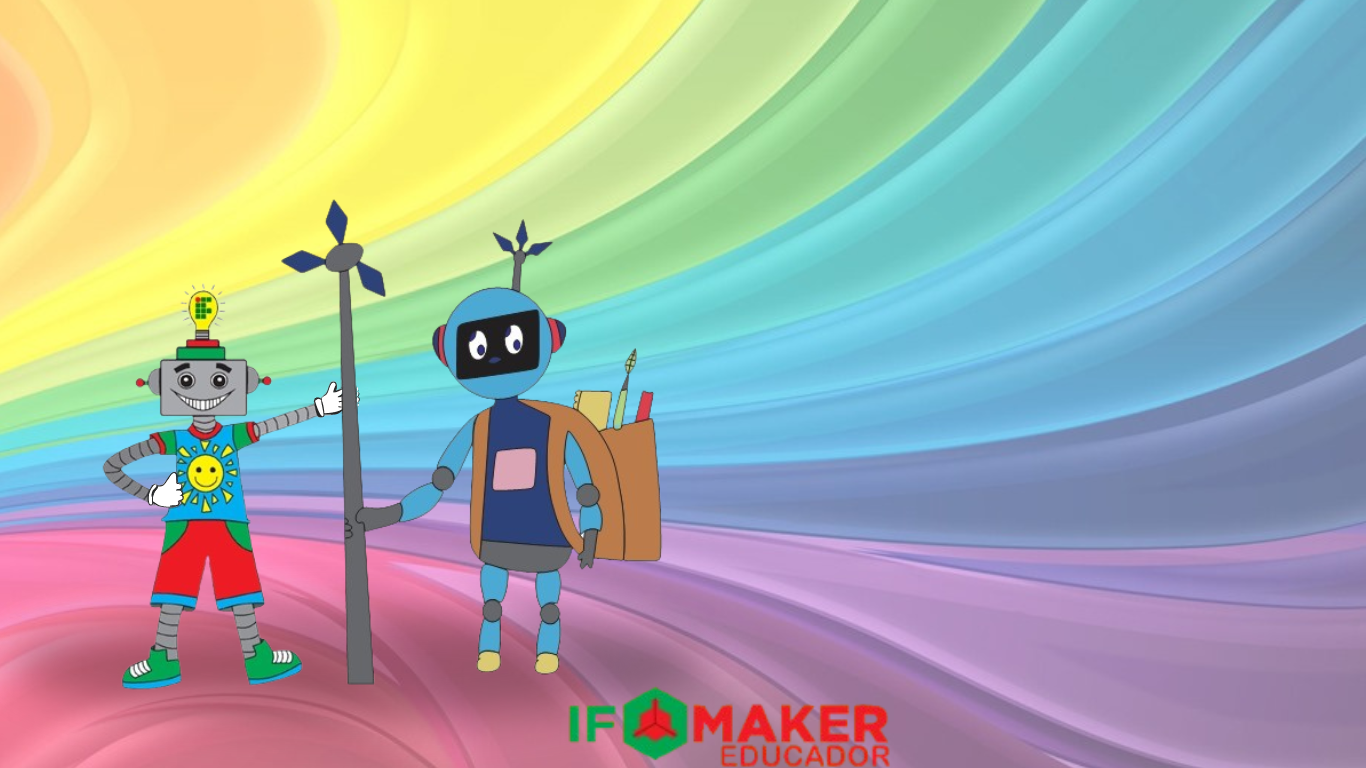
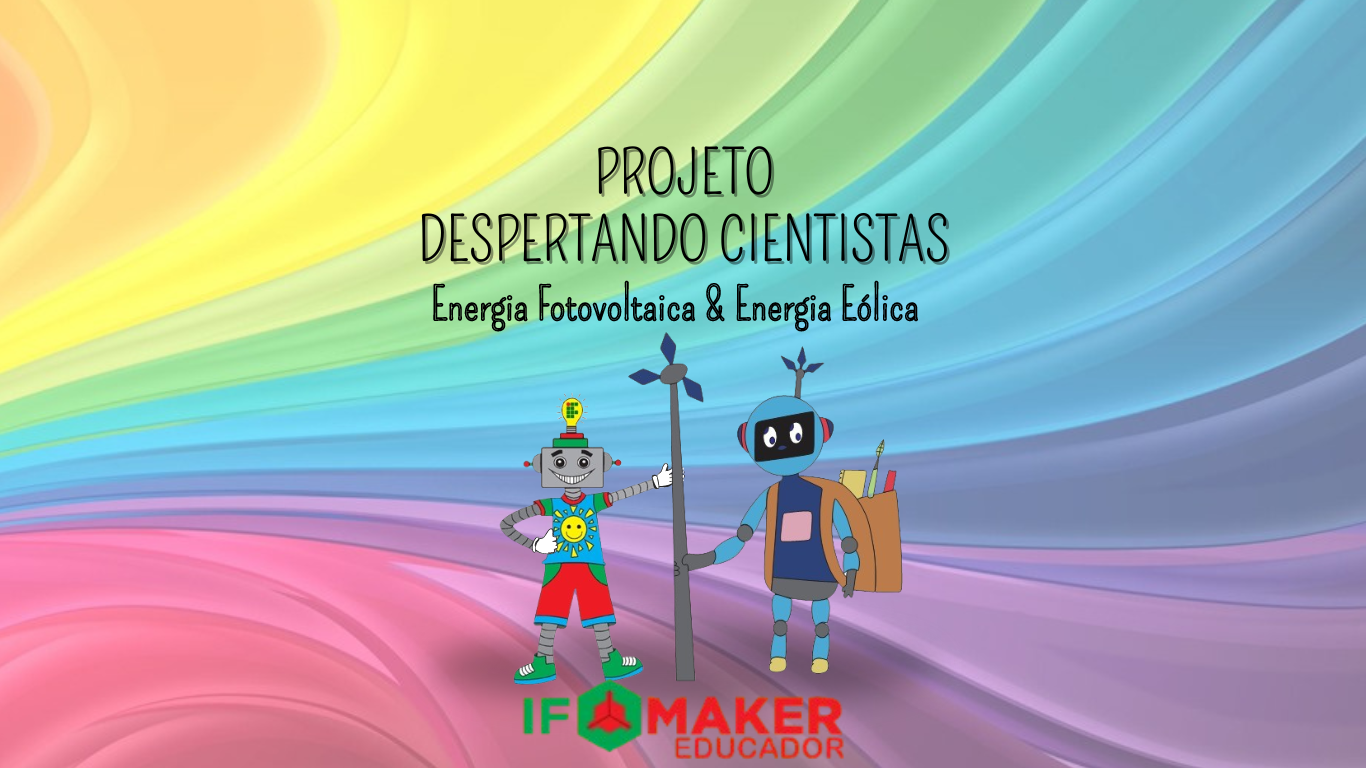
ajustes

Changed region(s): [[0.0, 0.1875, 0.7072, 1.0]]

diff --git a/css/styles.css b/css/styles.css
@@ -758,54 +758,21 @@ header.masthead {
   color: rgb(12, 12, 12);
   background-image: url("../assets/img/header.png");
   background-repeat: no-repeat;
-  background-attachment: scroll; /* Alterado de local para scroll */
+  background-attachment: local;
   background-position: center center;
-  background-size: contain; /* Alterado de cover para contain */
-  width: 100%;
+  background-size: cover;
+  max-width: 100%;
   height: auto;
 }
-
-/* Media queries for responsiveness */
-@media (max-width: 1200px) {
-  header.masthead {
-    padding-top: 8rem;
-    padding-bottom: 4rem;
-  }
-}
-
-@media (max-width: 992px) {
-  header.masthead {
-    padding-top: 6rem;
-    padding-bottom: 3rem;
-  }
-}
-
-@media (max-width: 768px) {
-  header.masthead {
-    padding-top: 4rem;
-    padding-bottom: 2rem;
-  }
-}
-
-@media (max-width: 576px) {
-  header.masthead {
-    padding-top: 3rem;
-    padding-bottom: 1.5rem;
-    background-position: top center;
-    background-size: cover; /* Alterado para cover para telas pequenas */
-  }
-}
-
 header.masthead .masthead-subheading {
   font-size: 1.5rem;
   font-style: italic;
   line-height: 1.5rem;
-  margin-bottom: 25px;
+  margin-bottom: 40px;
   font-family: "Roboto Slab", -apple-system, BlinkMacSystemFont, "Segoe UI",
     Roboto, "Helvetica Neue", Arial, sans-serif, "Apple Color Emoji",
     "Segoe UI Emoji", "Segoe UI Symbol", "Noto Color Emoji";
 }
-
 header.masthead .masthead-heading {
   font-size: 3.00rem;
   font-weight: 600;
@@ -814,4 +781,204 @@ header.masthead .masthead-heading {
   font-family: "Montserrat", -apple-system, BlinkMacSystemFont, "Segoe UI",
     Roboto, "Helvetica Neue", Arial, sans-serif, "Apple Color Emoji",
     "Segoe UI Emoji", "Segoe UI Symbol", "Noto Color Emoji";
+}
+
+@media (min-width: 768px) {
+  header.masthead {
+    padding-top: 17rem;
+    padding-bottom: 12.5rem;
+    background-size: cover;
+  }
+  header.masthead .masthead-subheading {
+    font-size: 2.75rem;
+    font-style: italic;
+    line-height: 2.25rem;
+    margin-bottom: 2rem;
+    background-size: cover;
+  }
+  header.masthead .masthead-heading {
+    font-size: 3.00rem;
+    font-weight: 600;
+    line-height: 4.5rem;
+    margin-bottom: 4rem;
+  }
+}
+
+.timeline {
+  position: relative;
+  padding: 0;
+  list-style: none;
+}
+.timeline:before {
+  position: absolute;
+  top: 0;
+  bottom: 0;
+  left: 40px;
+  width: 2px;
+  margin-left: -1.5px;
+  content: "";
+  background-color: #e9ecef;
+}
+.timeline > li {
+  position: relative;
+  min-height: 50px;
+  margin-bottom: 50px;
+}
+.timeline > li:after,
+.timeline > li:before {
+  display: table;
+  content: " ";
+}
+.timeline > li:after {
+  clear: both;
+}
+.timeline > li .timeline-panel {
+  position: relative;
+  float: right;
+  width: 100%;
+  padding: 0 20px 0 100px;
+  text-align: left;
+}
+.timeline > li .timeline-panel:before {
+  right: auto;
+  left: -15px;
+  border-right-width: 15px;
+  border-left-width: 0;
+}
+.timeline > li .timeline-panel:after {
+  right: auto;
+  left: -14px;
+  border-right-width: 14px;
+  border-left-width: 0;
+}
+.timeline > li .timeline-image {
+  position: absolute;
+  z-index: 100;
+  left: 0;
+  width: 80px;
+  height: 80px;
+  margin-left: 0;
+  text-align: center;
+  color: white;
+  border: 7px solid #e9ecef;
+  border-radius: 100%;
+  background-color: #ffc800;
+}
+.timeline > li .timeline-image h4 {
+  font-size: 10px;
+  line-height: 14px;
+  margin-top: 12px;
+}
+.timeline > li.timeline-inverted > .timeline-panel {
+  float: right;
+  padding: 0 20px 0 100px;
+  text-align: left;
+}
+.timeline > li.timeline-inverted > .timeline-panel:before {
+  right: auto;
+  left: -15px;
+  border-right-width: 15px;
+  border-left-width: 0;
+}
+.timeline > li.timeline-inverted > .timeline-panel:after {
+  right: auto;
+  left: -14px;
+  border-right-width: 14px;
+  border-left-width: 0;
+}
+.timeline > li:last-child {
+  margin-bottom: 0;
+}
+.timeline .timeline-heading h4 {
+  margin-top: 0;
+  color: inherit;
+}
+.timeline .timeline-body > p {
+  margin-bottom: 0;
+}
+
+@media (min-width: 768px) {
+  .timeline:before {
+    left: 50%;
+  }
+  .timeline > li {
+    min-height: 100px;
+    margin-bottom: 100px;
+  }
+  .timeline > li .timeline-panel {
+    float: left;
+    width: 41%;
+    padding: 0 20px 20px 30px;
+    text-align: right;
+  }
+  .timeline > li .timeline-image {
+    left: 50%;
+    width: 100px;
+    height: 100px;
+    margin-left: -50px;
+  }
+  .timeline > li .timeline-image h4 {
+    font-size: 13px;
+    line-height: 18px;
+    margin-top: 16px;
+  }
+  .timeline > li.timeline-inverted > .timeline-panel {
+    float: right;
+    padding: 0 30px 20px 20px;
+    text-align: left;
+  }
+}
+@media (min-width: 992px) {
+  .timeline > li {
+    min-height: 150px;
+  }
+  .timeline > li .timeline-panel {
+    padding: 0 20px 20px;
+  }
+  .timeline > li .timeline-image {
+    width: 150px;
+    height: 150px;
+    margin-left: -75px;
+  }
+  .timeline > li .timeline-image h4 {
+    font-size: 18px;
+    line-height: 26px;
+    margin-top: 30px;
+  }
+  .timeline > li.timeline-inverted > .timeline-panel {
+    padding: 0 20px 20px;
+  }
+}
+@media (min-width: 1200px) {
+  .timeline > li {
+    min-height: 170px;
+  }
+  .timeline > li .timeline-panel {
+    padding: 0 20px 20px 100px;
+  }
+  .timeline > li .timeline-image {
+    width: 170px;
+    height: 170px;
+    margin-left: -85px;
+  }
+  .timeline > li .timeline-image h4 {
+    margin-top: 40px;
+  }
+  .timeline > li.timeline-inverted > .timeline-panel {
+    padding: 0 100px 20px 20px;
+  }
+}
+
+.footer {
+  text-align: center;
+  font-size: 0.9rem;
+  font-family: "Montserrat", -apple-system, BlinkMacSystemFont, "Segoe UI",
+    Roboto, "Helvetica Neue", Arial, sans-serif, "Apple Color Emoji",
+    "Segoe UI Emoji", "Segoe UI Symbol", "Noto Color Emoji";
+}
+.card-hq {
+  text-align: center;
+  max-width: 50rem;
+  margin-left: auto;
+  margin-right: auto;
 }

diff --git a/index.html b/index.html
@@ -39,9 +39,11 @@
         <!-- Inicio-->
         <header class="masthead">
             <div class="container">
-                <div class="masthead-subheading">PROJETO </div>
-                <div class="masthead-subheading"> DESPERTANDO CIENTISTAS</div>
-                <div class="masthead-heading text-uppercase">Energia Fotovoltaica<br>Energia Eólica</div>
+                <div class="masthead-subheading"></div>
+                <div class="masthead-subheading"> </div>
+                <div class="masthead-heading text-uppercase"></div>
+                <br><br><br><br><br><br><br><br><br><br><br>
+                
             </div>
         </header>
         <!-- Quem somos-->
